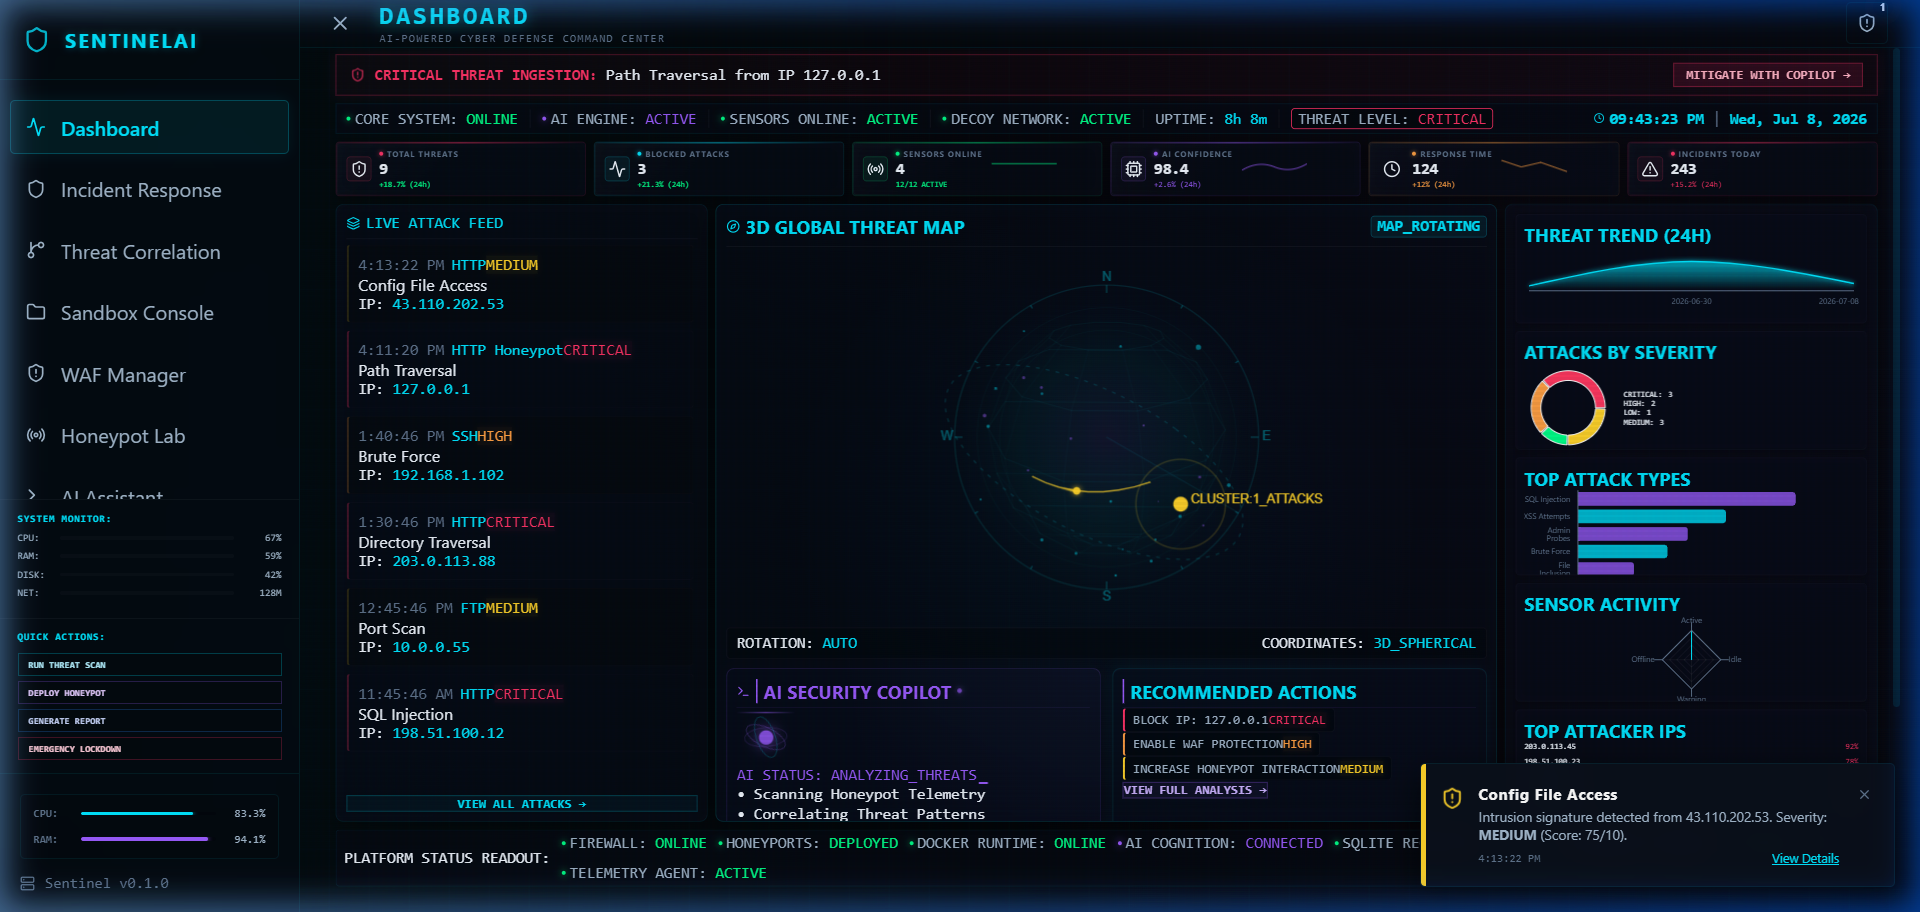
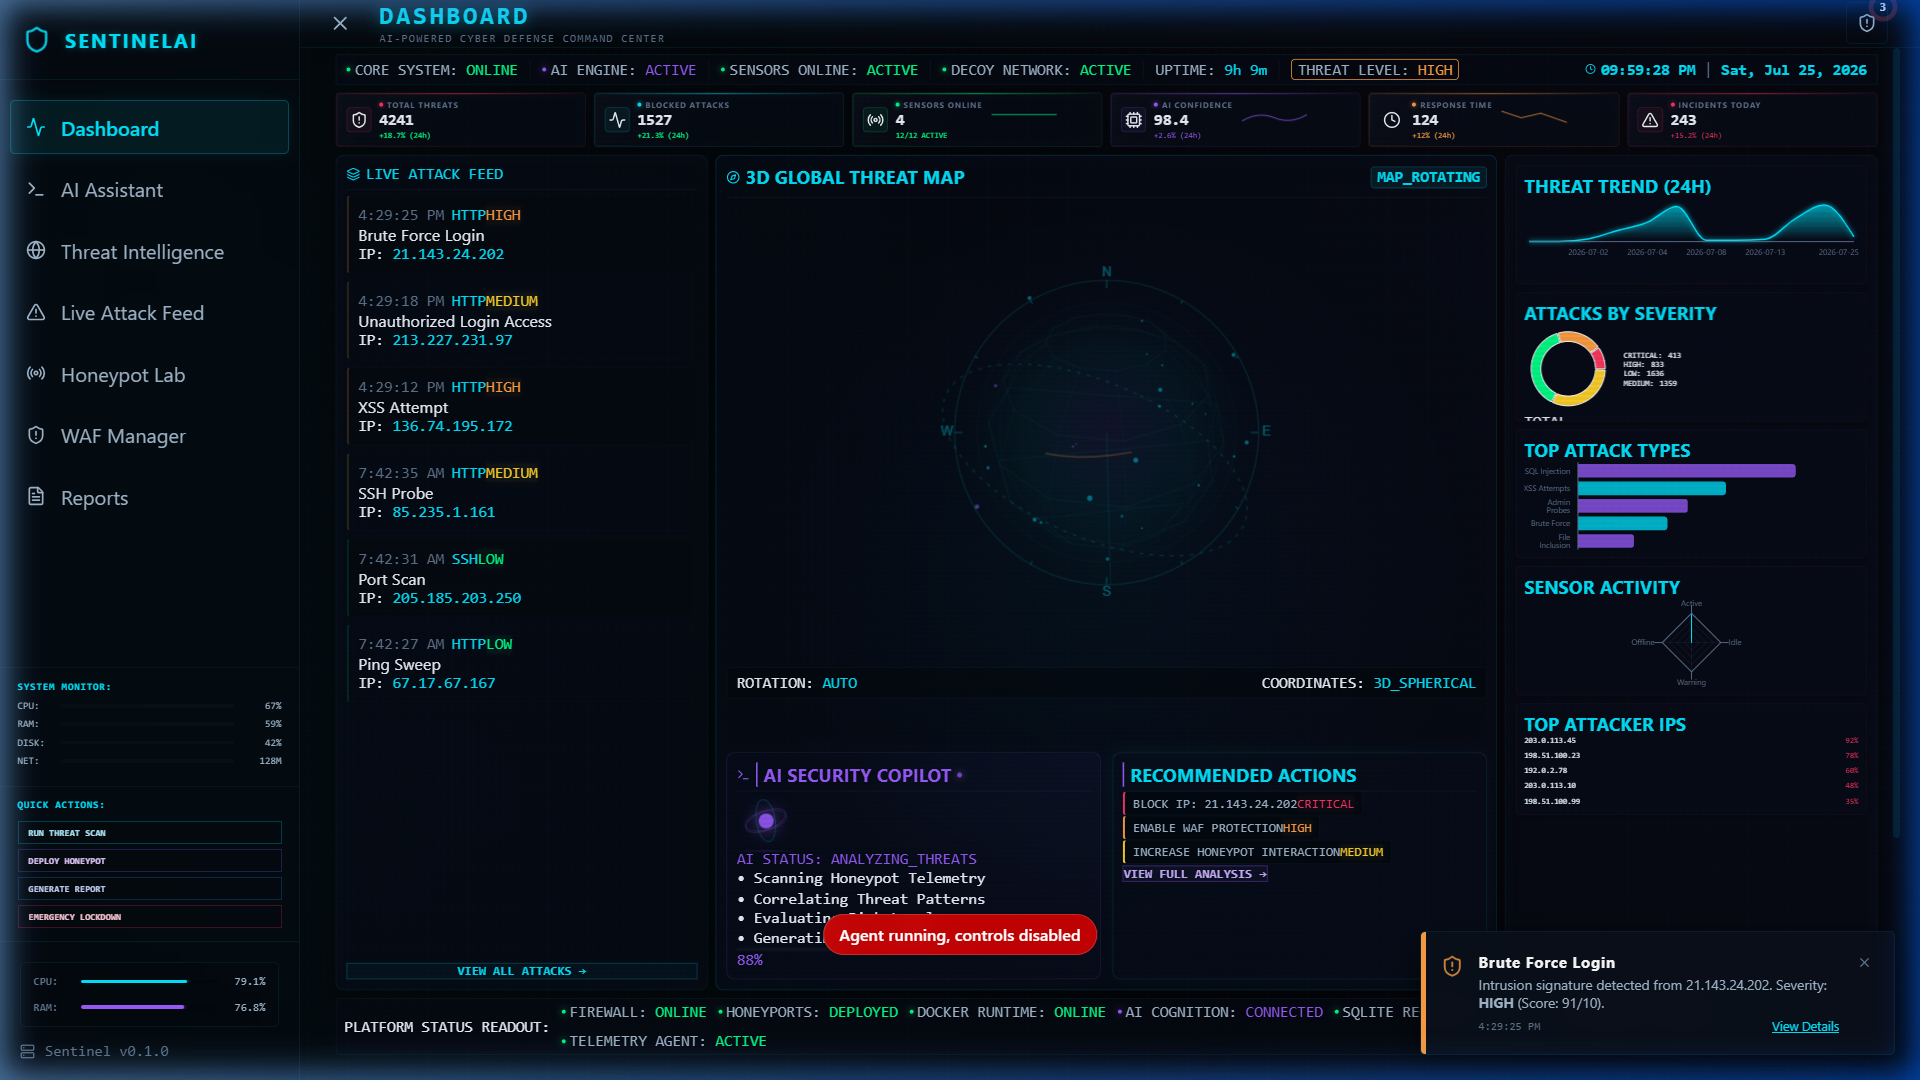
chore: simplify navigation and refresh project screenshots

diff --git a/frontend/src/layouts/DashboardLayout.jsx b/frontend/src/layouts/DashboardLayout.jsx
@@ -18,7 +18,8 @@ import {
   GitBranch,
   Folder,
   Skull,
-  Workflow
+  Workflow,
+  Globe
 } from 'lucide-react';
 import apiClient from '../api/client';
 import './DashboardLayout.css';
@@ -244,14 +245,12 @@ export default function DashboardLayout() {
 
   const menuItems = [
     { name: 'Dashboard', path: '/', icon: Activity },
-    { name: 'Incident Response', path: '/attacks', icon: Shield },
-    { name: 'Threat Correlation', path: '/correlation', icon: GitBranch },
-    { name: 'Sandbox Console', path: '/sandbox', icon: Folder },
-    { name: 'WAF Manager', path: '/waf', icon: ShieldAlert },
-    { name: 'Honeypot Lab', path: '/sensors', icon: Radio },
     { name: 'AI Assistant', path: '/agent', icon: Terminal },
-    { name: 'Reports', path: '/reports', icon: FileText },
-    { name: 'Settings', path: '/settings', icon: Settings },
+    { name: 'Threat Intelligence', path: '/attackers', icon: Globe },
+    { name: 'Live Attack Feed', path: '/attacks', icon: AlertTriangle },
+    { name: 'Honeypot Lab', path: '/sensors', icon: Radio },
+    { name: 'WAF Manager', path: '/waf', icon: ShieldAlert },
+    { name: 'Reports', path: '/reports', icon: FileText }
   ];
 
   return (

diff --git a/frontend/src/routes/index.jsx b/frontend/src/routes/index.jsx
@@ -6,9 +6,7 @@ import AttackFeed from '../pages/attack-feed/AttackFeed';
 import HoneypotLab from '../pages/honeypot-lab/HoneypotLab';
 import Agent from '../pages/agent/Agent';
 import Reports from '../pages/reports/Reports';
-import SettingsPage from '../pages/settings/Settings';
 import WAFManager from '../pages/waf/WAFManager';
-import CorrelationDashboard from '../pages/correlation/CorrelationDashboard';
 import SandboxDashboard from '../pages/sandbox/SandboxDashboard';
 import AttackerProfiles from '../pages/attackers/AttackerProfiles';
 import PlaybooksConsole from '../pages/playbooks/PlaybooksConsole';
@@ -25,10 +23,6 @@ const router = createBrowserRouter([
       {
         path: 'attacks',
         element: <AttackFeed />
-      },
-      {
-        path: 'correlation',
-        element: <CorrelationDashboard />
       },
       {
         path: 'sandbox',
@@ -57,10 +51,6 @@ const router = createBrowserRouter([
       {
         path: 'reports',
         element: <Reports />
-      },
-      {
-        path: 'settings',
-        element: <SettingsPage />
       }
     ]
   }

diff --git a/docs/FEATURES.md b/docs/FEATURES.md
@@ -20,11 +20,11 @@ This document provides a comprehensive specification of every monitoring, visual
 
 ---
 
-## 🌿 3. Threat Correlation Engine (`/correlation`)
-* **Graph Visualization**: Renders an interactive threat correlation node graph linking source IPs, attack vectors, and targeted services.
-* **Incident Clustering**: Groups related micro-events (e.g. repeated SSH login attempts + HTTP path traversal) into aggregated **Correlated Incidents**.
+## 🌿 3. Threat Correlation Engine
+* **Automated Incident Correlation**: Continuously clusters related micro-events (e.g. repeated SSH login attempts + HTTP path traversal) into aggregated **Correlated Incidents** on the backend.
 * **Threat Score Weighting**: Computes dynamic 0–100 risk scores based on attack frequency, severity, and payload signatures.
 * **MITRE ATT&CK Mapping**: Cross-references correlated incidents to specific MITRE tactics and techniques (e.g., T1110, T1059, T1190).
+* **Cross-System Telemetry**: Correlated incident findings feed directly into the SOC Dashboard, AI Assistant Workspace (`/agent`), PDF Reports (`/reports`), and active incident response workflows.
 
 ---
 
@@ -65,7 +65,7 @@ This document provides a comprehensive specification of every monitoring, visual
   * **Investigator Tab (Phase 15B)**: Dedicated incident/attack selection panel with **7 Structured AI Investigation Actions**:
     1. `Analyze Incident`: Deep diagnostic breakdown of the selected threat event.
     2. `Explain Severity`: Contextual explanation of the assigned risk rating.
-    3. `Extract IOCs`: Automated extraction of IP addresses, domains, hashes, and payload patterns.
+    3. `Extract IOCs`: Automated extraction of Indicators of Compromise.
     4. `Recommend Containment`: Step-by-step mitigation and containment guidance.
     5. `Map to MITRE`: Automatic cross-referencing with MITRE ATT&CK tactics and techniques.
     6. `Generate Timeline`: Reconstruction of event sequences leading up to the incident.
@@ -82,10 +82,10 @@ This document provides a comprehensive specification of every monitoring, visual
 
 ---
 
-## ⚙ 10. Settings & Thresholds (`/settings`)
-* **AI Settings**: View AI status and threshold settings.
-* **Severity Thresholds**: Adjust threat score multipliers and alert sensitivity limits.
-* **System Preferences**: Configure refresh intervals and theme options.
+## ⚙ 10. System Configuration & Alert Thresholds
+* **Internal Platform Configuration**: Manages backend configuration, API bindings, data retention parameters, and integration endpoints.
+* **Alert Sensitivity Thresholds**: Maintains dynamic threat score multipliers and alert notification sensitivity levels (`/settings` API).
+* **Notification Channels**: Supports webhook integrations (Slack, Discord) and SMTP alert recipient settings.
 
 ---
 

diff --git a/docs/00_MASTER_GUIDE.md b/docs/00_MASTER_GUIDE.md
@@ -34,18 +34,21 @@ SentinelAI is a local-first defensive cybersecurity platform that combines SOC v
 - Portfolio reviewers
 - Authorized blue-team environments
 
-## Major Domains
+## Major Navigation & Engine Domains
 
+### Core Navigation Views:
 - SOC Overview (`/`)
-- Incident Response (`/attacks`)
 - AI Assistant & Investigator (`/agent`)
-- Honeypot Operations (`/sensors`)
-- Sandbox Console (`/sandbox`)
-- WAF Manager (`/waf`)
 - Threat Intelligence (`/attackers`)
-- Threat Correlation (`/correlation`)
+- Incident Response (`/attacks`)
+- Honeypot Operations (`/sensors`)
+- WAF Manager (`/waf`)
 - Incident Reporting (`/reports`)
-- Platform Settings (`/settings`)
+
+### Subsystem & Backend Engines:
+- Sandbox Console (`/sandbox`)
+- Automated Threat Correlation Engine (`services/correlation_engine.py`)
+- System Configuration & Alert Thresholds (`api/settings.py`)
 
 ## Definition of Done
 

diff --git a/docs/19_SETTINGS.md b/docs/19_SETTINGS.md
@@ -5,9 +5,9 @@
 
 ---
 
-## Settings Module Overview
+## System Settings & Configuration Overview
 
-The Settings page (`/settings`) allows analysts to view and manage platform parameters:
-- **AI Settings**: View AI status and threshold settings.
-- **Alert Sensitivity**: Configure threat score weighting thresholds.
-- **UI Preferences**: Configure refresh rates and theme preferences.
+System settings and configuration parameters are managed internally and exposed via backend APIs (`/api/settings`):
+- **Platform Parameters**: Configures API bindings, data retention periods, and metric collector intervals.
+- **Alert Sensitivity & Thresholds**: Maintains alert score multipliers and notification threshold filters used by WebSocket alerts and SOC notifications.
+- **Integration Endpoints**: Stores webhook integration parameters (Slack, Discord) and alert recipient emails.

diff --git a/docs/27_GITHUB_SHOWCASE.md b/docs/27_GITHUB_SHOWCASE.md
@@ -28,11 +28,10 @@ Include a 1200x400 SVG/PNG banner graphic at the top of `README.md`:
 
 ### B. Curated Screenshot Portfolio
 Ensure high-resolution 1080p screenshots exist in `docs/assets/screenshots/`:
-1. `dashboard.png`: SOC Command Center with system vitals, map, and telemetry ticker.
+1. `dashboard.png`: SOC Command Center with system vitals, map, and telemetry ticker displaying the 7-item sidebar navigation.
 2. `copilot.png`: AI Copilot & AI Investigator Workspace with threat context panel.
 3. `honeypot.png`: Honeypot Decoy Lab showing SSH, HTTP, FTP, Telnet hit counters.
 4. `reports.png`: Executive Reports & Decoy Sandbox file scanner view.
-5. `correlation.png`: Interactive Threat Correlation graph and node links.
 
 ### C. Recommended Animated Demonstration GIFs
 Convert short 10-second screen captures into optimized GIFs (`docs/assets/gifs/`):

diff --git a/README.md b/README.md
@@ -138,10 +138,6 @@ Logs and threat signatures captured from SSH, Telnet, HTTP, and FTP honey-pots.
 Malicious file upload nodes, MD5 signature correlation, and dynamic simulation environments.
 ![Sandbox Emulation](docs/assets/screenshots/reports.png)
 
-### 📊 Aggregated Threat Correlation Graph
-Visualizing attacker coordinate vectors, network connections, and intrusion graphs.
-![Correlation Graph](docs/assets/screenshots/correlation.png)
-
 ---
 
 ## ⚡ Quick Setup & Installation
